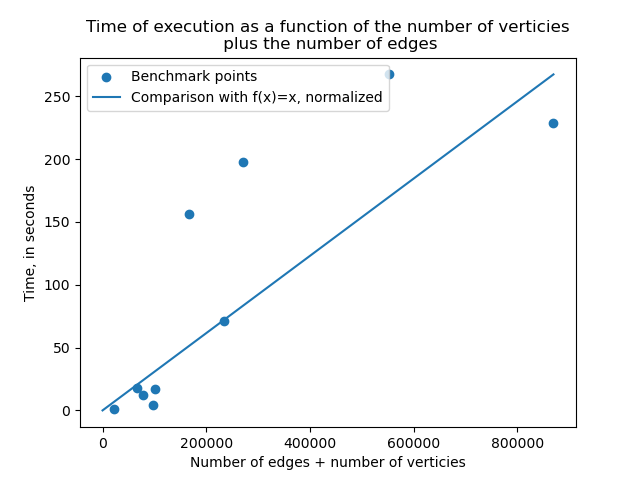
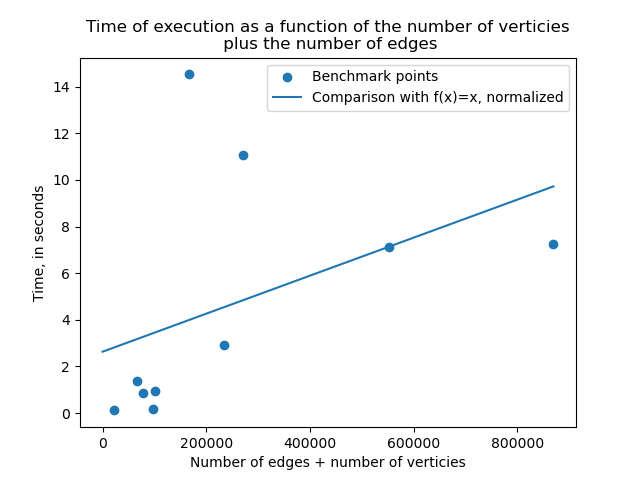
correction de bugs dans le parsing, production de nouveaux résultats

diff --git a/main.cpp b/main.cpp
@@ -42,17 +42,6 @@ list<graph_t> parse_files(list<string> filepaths);
 // main function, parse files and benchmark algo on the dataset from this link
 // http://snap.stanford.edu/data/gemsec-Facebook.html
 int main(){
-    // graph_t G = {
-    //     5,
-    //     {{1,2},{0},{0},{4},{3}}
-    // };
-    // pair<float,int_list> res = two_approx(G);
-    // cout << "density" << res.first << endl;
-    // cout << "nodes to keep" << endl;
-    // for (auto i : res.second){
-    //     cout << i << endl;
-    // }
-
     // Parse dataset
     list<graph_t> graphs = parse_files({
         "./data/facebook_clean_data/athletes_edges.csv",
@@ -72,6 +61,9 @@ int main(){
     list<pair<int,double>> size_time_list2 {};
     // List 3 for size = nb verticies
     list<pair<int,double>> size_time_list3 {};
+    // CSV to store densities obtained
+    ofstream densityFile ("./results.csv");
+    densityFile << "edges," << "verticies," << "density," << "clique density," << "optimal density approximation," << "number of nodes in the subgraph," << "time" << endl;
     // Benchmark loop
     for (auto graph : graphs){
         clock_t start, end;
@@ -81,13 +73,26 @@ int main(){
         int size3 = graph.verticies_count;
         double time_used;
         start = clock();
-        two_approx(graph);
+        pair<float,int_list> res = two_approx(graph);
         end = clock();
+        float approx_density = res.first;
+        int subgraph_nodes = res.second.size();
+        float initial_density = ((float) graph.edges_number)/ graph.verticies_count;
+        float clique_density = ((float) 2*graph.edges_number)/(graph.verticies_count*(graph.verticies_count-1));
         time_used = ((double) (end - start)) / CLOCKS_PER_SEC;
+        densityFile << 
+            graph.edges_number << "," <<
+            graph.verticies_count << "," <<
+            initial_density << "," <<
+            clique_density << "," <<
+            approx_density << "," <<
+            subgraph_nodes << "," <<
+            time_used << endl;
         size_time_list1.push_back(pair<int,double>(size1,time_used));
         size_time_list2.push_back(pair<int,double>(size2,time_used));
         size_time_list3.push_back(pair<int,double>(size3,time_used));
     }
+    densityFile.close();
     // Write benchmarks in a 3 csv files
     ofstream bench_file1 ("./benchmarks/benchmarks_edges+verticies.csv");
     bench_file1 << "size,time" << endl;
@@ -144,14 +149,15 @@ list<graph_t> parse_files(list<string> filepaths){
                 nb_edges++;
             }
             // Initialize a vector the right size
-            vector<int_list> adj_vec (max_vertex_index+1);
+            vector<int_list> vec (max_vertex_index+1);
             graph_t graph {
                 max_vertex_index+1,
                 nb_edges,
-                adj_vec
+                vec
             };
             // Reset get position of ifs
-            ifs.seekg(0);
+            ifs.clear();
+            ifs.seekg(0, std::ios::beg);
             // First line is always node1, node2 so we ditch this
             getline(ifs,line);
             // Second loop to store edges
@@ -160,8 +166,8 @@ list<graph_t> parse_files(list<string> filepaths){
                 // Split between the comma
                 int left = stoi(line.substr(0,pos));
                 int right = stoi(line.substr(pos+1,line.length()));
-                adj_vec[left].push_back(right);
-                adj_vec[right].push_back(left);
+                graph.adj_vec[left].push_back(right);
+                graph.adj_vec[right].push_back(left);
             }
             // Close file
             ifs.close();
@@ -177,8 +183,6 @@ list<graph_t> parse_files(list<string> filepaths){
 
 // Algorithm to compute two approx
 pair<float,int_list> two_approx(graph_t G){
-    // Copy G into H
-    graph_t H = G;
     // Collect input variables, vectors are copied in O(nb_verticies)
     int verticies_count = G.verticies_count;
     vector<int_list> adj_vec = G.adj_vec;
@@ -221,24 +225,28 @@ pair<float,int_list> two_approx(graph_t G){
     int deleted_nodes[verticies_count];
     // Array where densisties[i] is the density after i steps
     float densities[verticies_count];
+    // After 0 steps, we have the starting density
     densities[0] = initial_density;
     //    
-    // Main Loop 
+    // Main Loop, nb_verticies iterations
     //
     for (int step = 1; step < verticies_count; step++){
         int_list deg_list = degrees[min_degree];
         int node_to_remove = deg_list.front();
-        // Update deleted nodes, number of edges and densities
+        // Update deleted nodes, number of edges and densities, all O(1)
         deleted_nodes[step]=node_to_remove;
         number_of_edges-=min_degree;
         densities[step] = ((float) number_of_edges/ (float) (verticies_count-step));
         current_degrees[node_to_remove]=0;
-        // Now we update degree_list
+        // Now we update degree_list, we remove the node currently examinated
+        // We will never examine it again as it is now in none of the lists
+        // Composing the vector degrees
         degrees[min_degree].pop_front();
         
         // Now we update degrees of neighbours of the node removed
         int_list adj_list = adj_vec[node_to_remove];
         // Loop through the neighbours of the node to remove
+        // This takes O(degree(node_removed))
         for (const auto & node : adj_list){
             // We get the degree before deletion
             int node_degree = current_degrees[node];
@@ -259,8 +267,8 @@ pair<float,int_list> two_approx(graph_t G){
 			}         
         }
 
-
         // Find new min degree
+        // Finding the new degree takes O(degree(v)), where v is the new node with min degree
         // The new min degree must be at least min_degree-1, so we check for this case
         if (min_degree!=0 && !degrees[min_degree-1].empty()){
             min_degree = min_degree-1;
@@ -273,6 +281,18 @@ pair<float,int_list> two_approx(graph_t G){
             }
         }
     }
+    // End of main loop : performance analysis
+    // We loop through all nodes of the graph, and we do two costly things while doing that : 
+    // - First, loop through neigbours of the node to remove and update the vector "degrees" : O(deg(node to remove))
+    // - Second, find the new min degree, by finding the first non-empty list in the vector "degrees". This non-empty list
+    // is at the index new_min_degree, so we find it in O(new_min_degree) = O(deg(v)) for some v that we will remove
+    // at the next iteration since it has new min degree
+    // Finally, main loop takes O(sum_{v vertex} deg(v)) + O(sum_{v vertex} deg(v)) = O(2*nb_edges) = O(nb_edges) 
+
+
+    // Finding best density, and putting nodes to keep in a list
+    // This all takes O(nb of verticies)
+
     // Get the last node, staying after main loop :
     int last_node = degrees[min_degree].front();
     // Loop through all the densities to find the best one
@@ -290,5 +310,10 @@ pair<float,int_list> two_approx(graph_t G){
     for (int i = best_step+1; i < verticies_count; i++){
         nodes_to_keep.push_front(deleted_nodes[i]);
     }
+
+    // Final performance analysis : 
+    // O(nb_edges) for the main loop, O(nb_vertices) for the precomputation/work at the end, so :
+    // O(nb_edges + nb_verticies) total, i.e linear in the size of the graph
+
 	return pair<float,int_list>(densities[best_step],nodes_to_keep);
 }

diff --git a/produce_plots.py b/produce_plots.py
@@ -3,8 +3,6 @@ import numpy as np
 import csv
 
 # For plotting functions as comparisons
-def identity(n, normalization_coeff,space_size):
-    return normalization_coeff*(n/space_size)
 
 def square(n,normalization_coeff,space_size):
     return normalization_coeff*(n/space_size)**2 
@@ -26,10 +24,13 @@ with open("./benchmarks/benchmarks_edges.csv") as csvfile :
 
 x_space = np.linspace(0,max(sizeval))
 
-id_vals = identity(x_space,max(timeval),max(sizeval))
+# Linear regression
+A = np.vstack([sizeval, np.ones(len(sizeval))]).T
+
+m, c = np.linalg.lstsq(A, timeval, rcond=None)[0]
 
 plt.scatter(sizeval,timeval,label='Benchmark points')
-plt.plot(x_space,id_vals,label='Comparison with f(x)=x, normalized')
+plt.plot(x_space,m*x_space+c,label='Comparison with f(x)=x, normalized')
 plt.xlabel("Number of edges")
 plt.ylabel("Time, in seconds")
 plt.title("Time of execution as a function of the number of edges")
@@ -50,10 +51,15 @@ with open("./benchmarks/benchmarks_edges+verticies.csv") as csvfile :
 
 x_space = np.linspace(0,max(sizeval))
 
-id_vals = identity(x_space,max(timeval),max(sizeval))
+
+# Linear regression
+A = np.vstack([sizeval, np.ones(len(sizeval))]).T
+
+m, c = np.linalg.lstsq(A, timeval, rcond=None)[0]
+
 
 plt.scatter(sizeval,timeval,label='Benchmark points')
-plt.plot(x_space,id_vals,label='Comparison with f(x)=x, normalized')
+plt.plot(x_space,m*x_space+c,label='Comparison with f(x)=x, normalized')
 plt.xlabel("Number of edges + number of verticies")
 plt.ylabel("Time, in seconds")
 plt.title("Time of execution as a function of the number of verticies\n plus the number of edges")

diff --git a/README.md b/README.md
@@ -8,3 +8,4 @@ plots :
 
 ![Plot of time=f(number of verticies)](/benchmarks_plots/verticies_graph.png "Plot of time=f(number of verticies)")
 
+idée : graphes peu denses dégradent la perf car graphes denses : diminuent de bcp le nb de sommets à mettre à jour a chaque itération
